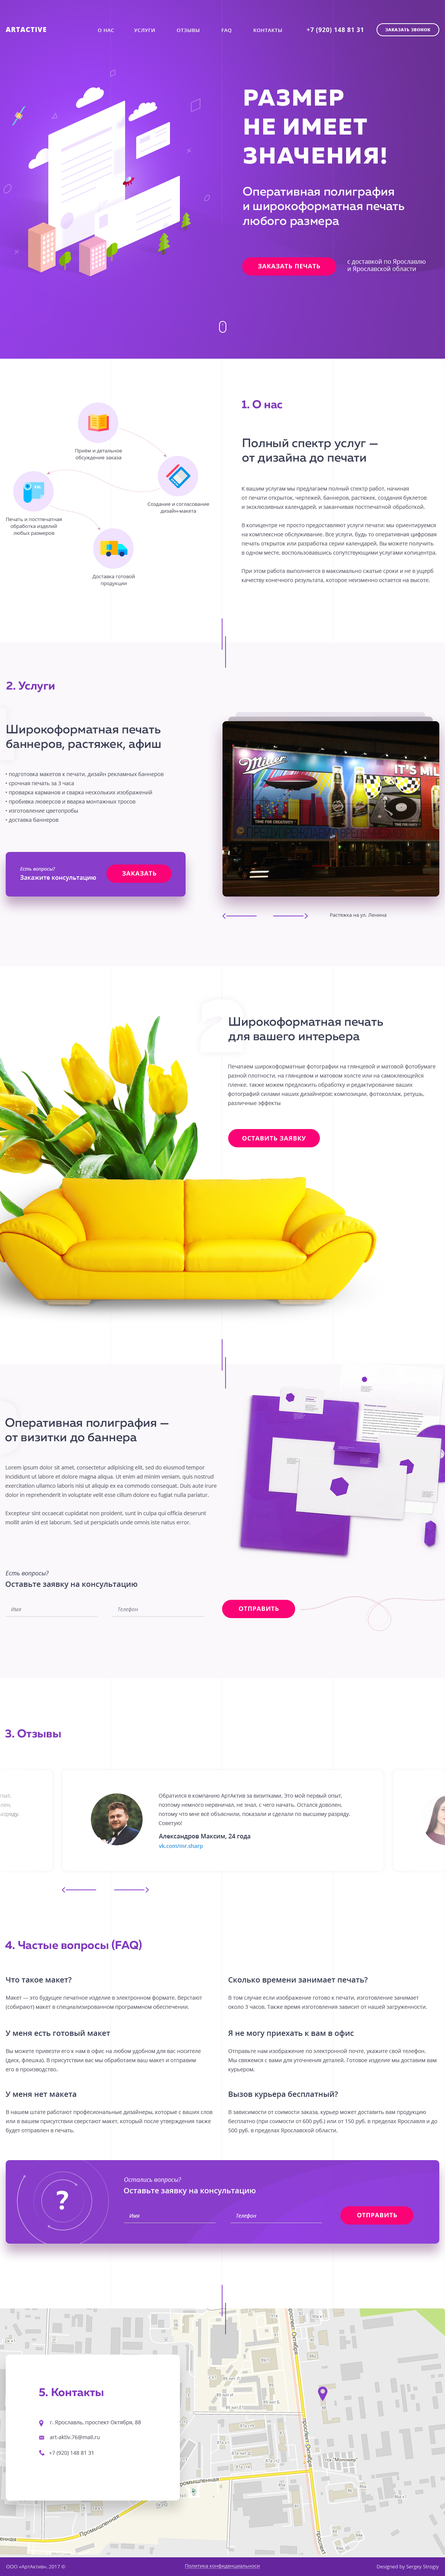
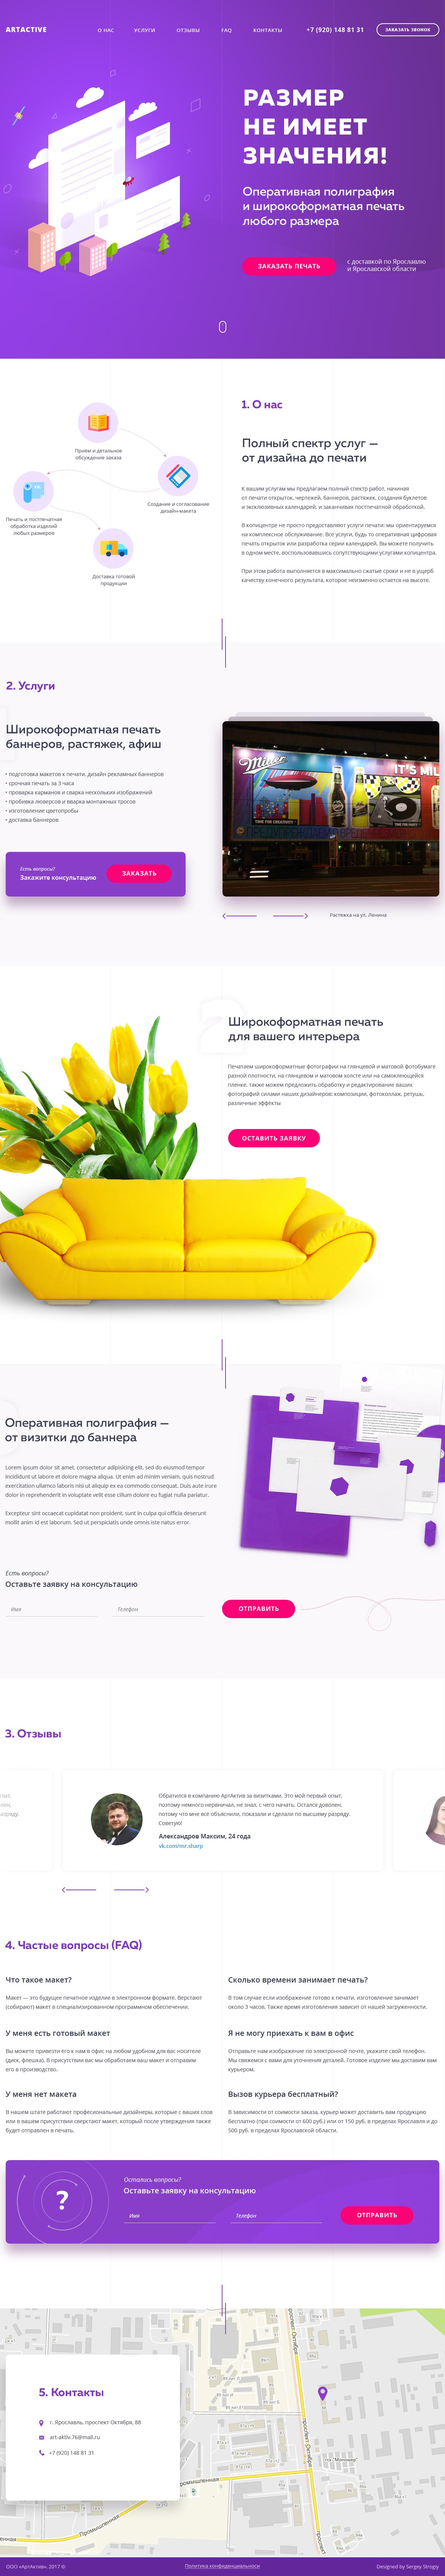
Desktop hero and about is done

Changed region(s): [[0.2154, 0.1873, 0.2769, 0.2186], [0.0615, 0.1873, 0.0923, 0.2186]]

diff --git a/source/index.html b/source/index.html
@@ -48,7 +48,7 @@
       </div>
       <section class="header-main__hero hero">
           <div class="hero__wrapper">
-            <p class="hero__lead">Размер<br> не имеет<br> значения</p>
+            <p class="hero__lead">Размер<br> не имеет<br> значения!</p>
             <h1 class="hero__header">Оперативная полиграфия<br> и широкоформатная печать<br> любого размера</h1>
             <div class="hero__order">
               <button class="hero__order-button button">Заказать печать</button>
@@ -107,8 +107,10 @@
                 <picture>
                   <source type="image/webp" srcset="img/slider_banner_01.webp 1x" media="(max-width: 779px)">
                   <source type="image/jpeg" srcset="img/slider_banner_01.jpg 1x" media="(max-width: 779px)">
-                  <source type="image/webp" srcset="img/slider_banner_tablet_01.webp 1x" media="(max-width: 1150px)">
-                  <source type="image/jpeg" srcset="img/slider_banner_tablet_01.jpg 1x" media="(max-width: 1150px)">
+                  <source type="image/webp" srcset="img/slider_banner_tablet_01.webp 1x" media="(max-width: 1169px)">
+                  <source type="image/jpeg" srcset="img/slider_banner_tablet_01.jpg 1x" media="(max-width: 1169px)">
+                  <source type="image/webp" srcset="img/slider_banner_desktop_01.webp 1x" media="(min-width: 1170px)">
+                  <source type="image/jpeg" srcset="img/slider_banner_desktop_01.jpg 1x" media="(min-width: 1170px)">
                   <img class="service-banner__slider-img slider__img" src="img/slider_banner_01.jpg" alt="Растяжка на улице ленина">
                 </picture>
                 <p class="service-banner__slider-caption slider__caption">Растяжка на ул. Брежнева</p>
@@ -117,8 +119,10 @@
                 <picture>
                   <source type="image/webp" srcset="img/slider_banner_02.webp 1x" media="(max-width: 779px)">
                   <source type="image/jpeg" srcset="img/slider_banner_02.jpg 1x" media="(max-width: 779px)">
-                  <source type="image/webp" srcset="img/slider_banner_tablet_02.webp 1x" media="(max-width: 1150px)">
-                  <source type="image/jpeg" srcset="img/slider_banner_tablet_02.jpg 1x" media="(max-width: 1150px)">
+                  <source type="image/webp" srcset="img/slider_banner_tablet_02.webp 1x" media="(max-width: 1169px)">
+                  <source type="image/jpeg" srcset="img/slider_banner_tablet_02.jpg 1x" media="(max-width: 1169px)">
+                  <source type="image/webp" srcset="img/slider_banner_desktop_02.webp 1x" media="(min-width: 1170px)">
+                  <source type="image/jpeg" srcset="img/slider_banner_desktop_02.jpg 1x" media="(min-width: 1170px)">
                   <img class="service-banner__slider-img slider__img" src="img/slider_banner_02.jpg" alt="Растяжка на улице ленина">
                 </picture>
                 <p class="service-banner__slider-caption slider__caption">Растяжка на ул. Сталина</p>
@@ -127,8 +131,10 @@
                 <picture>
                   <source type="image/webp" srcset="img/slider_banner_03.webp 1x" media="(max-width: 779px)">
                   <source type="image/jpeg" srcset="img/slider_banner_03.jpg 1x" media="(max-width: 779px)">
-                  <source type="image/webp" srcset="img/slider_banner_tablet_03.webp 1x" media="(max-width: 1150px)">
-                  <source type="image/jpeg" srcset="img/slider_banner_tablet_03.jpg 1x" media="(max-width: 1150px)">
+                  <source type="image/webp" srcset="img/slider_banner_tablet_03.webp 1x" media="(max-width: 1169px)">
+                  <source type="image/jpeg" srcset="img/slider_banner_tablet_03.jpg 1x" media="(max-width: 1169px)">
+                  <source type="image/webp" srcset="img/slider_banner_desktop_03.webp 1x" media="(min-width: 1170px)">
+                  <source type="image/jpeg" srcset="img/slider_banner_desktop_03.jpg 1x" media="(min-width: 1170px)">
                   <img class="service-banner__slider-img slider__img" src="img/slider_banner_03.jpg" alt="Растяжка на улице ленина">
                 </picture>
                 <p class="service-banner__slider-caption slider__caption">Растяжка на ул. Ленина</p>

diff --git a/source/sass/blocks/hero.scss b/source/sass/blocks/hero.scss
@@ -137,16 +137,40 @@
     min-height: 940px;
     margin-top: -118px;
     position: relative;
+    background-image: url("../img/first-screen-bg-desktop@1x.webp");
+    background-position: center;
+    background-repeat: no-repeat;
+    background-size: cover;
+
+    .nowebp &,
+    .nojs & {
+      background-image: url("../img/first-screen-bg-desktop@1x.jpg");
+    }
   }
 
   .hero__wrapper {
-    width: 535px;
+    width: 100%;
+    max-width: map-get($breakpoints, desktop);
+    margin: 0 auto;
     padding-top: 166px;
+    background-image: url("../img/first-screen-bg-image-desktop@1x.webp"), url("../img/first-screen-bg-lights-desktop@1x.webp");
+    background-position: left -95px top 130px, left center;
+    background-repeat: no-repeat, no-repeat;
+    background-size: 647px 548px, 629px 631px;
+    display: flex;
+    flex-direction: column;
+    align-items: flex-end;
+
+    .nowebp &,
+    .nojs & {
+      background-image: url("../img/first-screen-bg-image-desktop@1x.png"), url("../img/first-screen-bg-lights-desktop@1x.png");
+    }
   }
 
   .hero__lead {
     font-size: 60px;
     line-height: 75px;
+    margin-right: 130px;
   }
 
   .hero__header {
@@ -154,11 +178,13 @@
     font-size: 28px;
     line-height: 38px;
     letter-spacing: 0.1rem;
+    margin-right: 75px;
   }
 
   .hero__order {
     margin-top: 77px;
     display: flex;
+    min-width: 470px;
   }
 
   .hero__order-button {

diff --git a/source/sass/blocks/about.scss b/source/sass/blocks/about.scss
@@ -240,6 +240,7 @@
     display: flex;
     flex-direction: row;
     padding: 0 15px;
+    padding-bottom: 125px;
   }
 
   .about__wrapper {
@@ -256,11 +257,42 @@
     margin: 0;
     margin-left: auto;
     width: 570px;
+
+    background-image: url("../img/workflow-path-bg-desktop@1x.webp");
+    background-size: 316px 268px;
+    background-position: left 105px top 180px;
+
+    @media only screen and (min-resolution: 192dpi), only screen and (min-resolution: 2dppx) {
+      background-image: url("../img/workflow-path-bg-desktop@2x.webp");
+    }
+
+    .nojs &,
+    .nowebp & {
+      background-image: url("../img/workflow-path-bg-desktop@1x.png");
+
+      @media only screen and (min-resolution: 192dpi), only screen and (min-resolution: 2dppx) {
+        background-image: url("../img/workflow-path-bg-desktop@2x.png");
+      }
+    }
   }
 
   .about__workflow-item {
     &--get-order {
       top: 233px;
+    }
+
+    &--create-design {
+      top: 374px;
+      left: 363px;
+    }
+
+    &--print-order {
+      top: 413px;
+    }
+
+    &--deliver-order {
+      top: 563px;
+      left: 192px;
     }
   }
 }

diff --git a/source/sass/blocks/service-banner.scss b/source/sass/blocks/service-banner.scss
@@ -212,3 +212,11 @@
     margin-left: 37px;
   }
 }
+
+@media (min-width: map-get($breakpoints, desktop)) {
+  .service-banner {
+    padding: 0 15px;
+    max-width: map-get($breakpoints, desktop);
+    margin: 0 auto;
+  }
+}

diff --git a/source/sass/blocks/header.scss b/source/sass/blocks/header.scss
@@ -57,3 +57,12 @@
     }
   }
 }
+
+@media (min-width: map-get($breakpoints, desktop)) {
+  .header {
+    &--services {
+      margin: 0 15px;
+      margin-top: 68px;
+    }
+  }
+}
